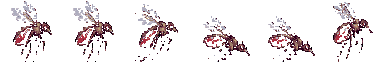
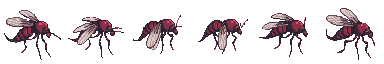
(수정) 늪 모기 외형 교체 — 부서진 GPT 시트 → PixelLab 붉은 마디 모기
- 기본 포즈(반투명 날개·줄무늬 배·긴 다리)에서 animate_image로 Idle 4·Attack 6, Death 5(프레임마다 1→9px 하강 + 알파 페이드)
- Run은 Idle 재사용, Take Hit은 날개 접은 공격 프레임 재사용, polish_mob_sheets 16색(--keep-bits)
- reskin으로 SwampMosquito_BD·DeadBody 재빌드(실제 도트 밀도 24 유지)
- TechDebt A-201: 보스 5종 도트 밀도 18 → 24 격자 불균일(크기·판정 재조정 필요해 보류)
- 검증: 플레이 모드 라인업 스크린샷(늑대·요정·유령과 비교), 콘솔 에러 0. 공격·사망 애니메이션 실제 재생은 미확인

diff --git a/.claude-rules/Game/TechDebt.md b/.claude-rules/Game/TechDebt.md
@@ -1,4 +1,4 @@
-# 버그 · 기술 부채 백로그
+# 버그 · 기술 부채 백로그
 
 > 우선순위: P0 = 게임 진행 불가·데이터 손실, P1 = 핵심 수치/기능 오류, P2 = 잠재 크래시·누수, P3 = 정리.
 > 수정하면 상태를 ✅로 바꾸고 커밋 해시와 **검증 방법**(에디터 플레이·프로브)을 적는다.
@@ -91,6 +91,7 @@
 | B-210 | `new SetItem()`(MonoBehaviour new) | DatabaseManager, InventoryManager |
 | B-211 | 코드 생성 머티리얼이 `Shader.Find`(Sprites/Default, Legacy Particles/Additive)에 의존 → 빌드에서 셰이더가 빠질 수 있음. Always Included 등록 또는 Resources 머티리얼로 교체 필요 | `EmitParticles`, `DropLightPillar` |
 | B-212 | ✅ 방어구 `armor`가 `playerDef`에 더해지지 않던 문제 → `EquipBoxCheck.SetEquipment`에서 `armor × 강화배율 × 0.5(Equipment.ArmorToDef)` 적용. 비율은 몬스터 공격력 조정(Lv2 튜닝)과 함께 재검토 | `EquipBoxCheck.cs`, `Equipment.cs` |
+| A-201 | 보스 5종(AncientEnt·BanditChief·GargoyleLord·Gatekeeper·GiantSlime)의 도트 밀도가 유닛당 18이라 PixelLook 24 격자에서 도트 크기가 1·1·2칸으로 고르지 않다. 24로 맞추면 크기 25% 축소 + 공격 판정 범위 재조정 필요(ArtStyle 해상도 규정은 24) | `reskin_mobs.cs`(보스 WorldPxPerUnit 18), 보스 공격 콜라이더 |
 
 ## P3 (정리)
 
